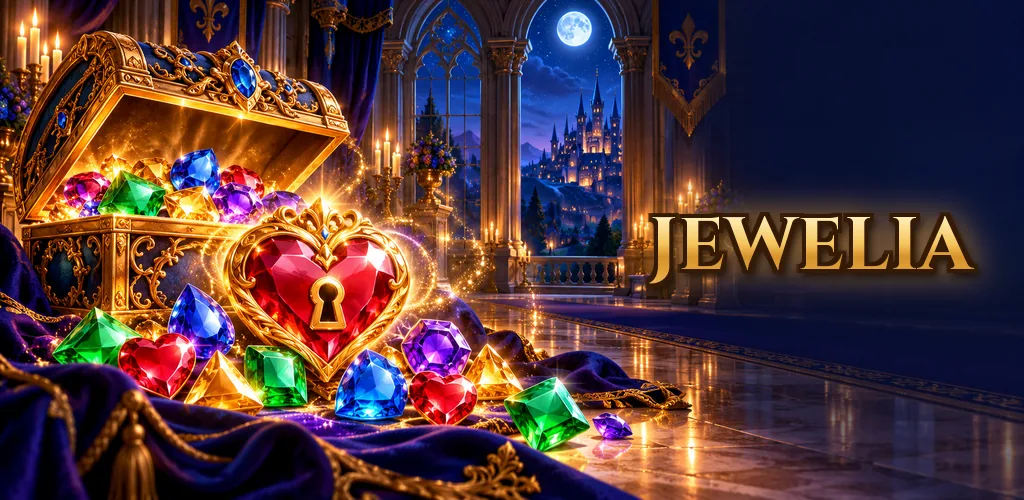
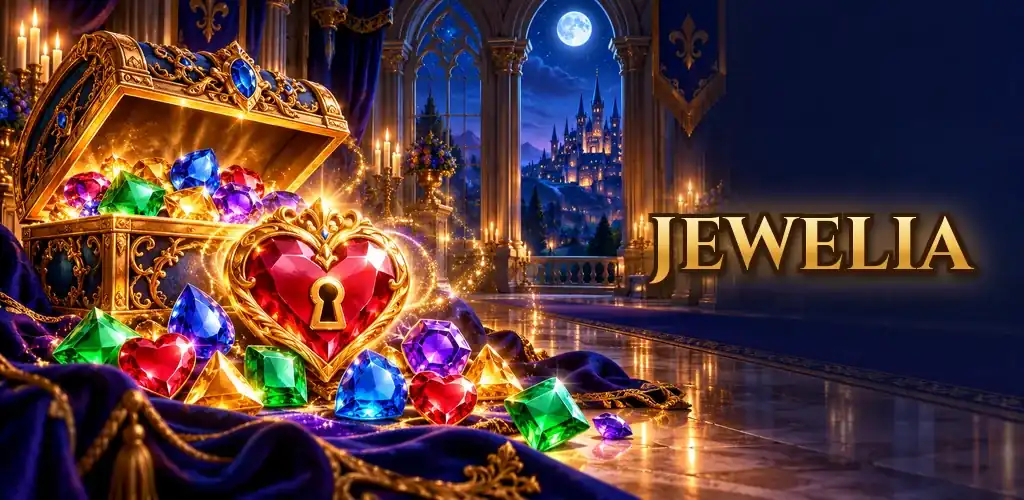
Fix heading order, link names and hero image weight
- Footer headings h3 -> h2 so the 404 page has no skipped level
- Galleries get role="region" for their aria-label
- Brand link: drop aria-label, real space before STUDIO
- Jewelia: preload the hero background, re-encode it (110 KB -> 62 KB)
- robots.txt: keep /jewelia/levels/ out of search; README note
- CSS/JS ?v=5

diff --git a/jewelia/index.html b/jewelia/index.html
@@ -15,7 +15,8 @@
 <link rel="apple-touch-icon" href="/apple-touch-icon.png">
 <link rel="preload" href="/assets/fonts/playfair-display-latin-wght-normal.woff2" as="font" type="font/woff2" crossorigin>
 <link rel="preload" href="/assets/fonts/inter-latin-wght-normal.woff2" as="font" type="font/woff2" crossorigin>
-<link rel="stylesheet" href="/assets/css/site.css?v=4">
+<link rel="preload" href="/assets/img/jewelia-feature.webp" as="image" fetchpriority="high">
+<link rel="stylesheet" href="/assets/css/site.css?v=5">
 <meta property="og:type" content="website">
 <meta property="og:site_name" content="MBS Nova Studio">
 <meta property="og:url" content="https://mbsnovastudio.com/jewelia/">
@@ -41,7 +42,7 @@
   "author": { "@type": "Organization", "name": "MBS Nova Studio", "url": "https://mbsnovastudio.com/" }
 }
 </script>
-<script src="/assets/js/site.js?v=4" defer></script>
+<script src="/assets/js/site.js?v=5" defer></script>
 </head>
 <body>
 <svg width="0" height="0" style="position:absolute" aria-hidden="true" focusable="false">
@@ -66,9 +67,9 @@
 
 <header class="site-header">
   <div class="wrap header-inner">
-    <a class="brand" href="/" aria-label="MBS Nova Studio">
+    <a class="brand" href="/">
       <svg class="brand-mark" aria-hidden="true"><use href="#i-star"/></svg>
-      <span class="brand-name">MBS Nova<small>STUDIO</small></span>
+      <span class="brand-name">MBS Nova <small>STUDIO</small></span>
     </a>
     <nav class="nav" id="site-nav" aria-label="Menü / Menu">
       <a href="/#apps" aria-current="page"><span lang="tr">Ürünler</span><span lang="en">Products</span></a>
@@ -139,7 +140,7 @@
           <button type="button" data-dir="1" aria-label="Sonraki / Next"><svg aria-hidden="true"><use href="#i-arrow"/></svg></button>
         </div>
       </div>
-      <div class="gallery" id="gallery" tabindex="0" aria-label="Jewelia">
+      <div class="gallery" id="gallery" role="region" tabindex="0" aria-label="Jewelia">
         <figure><div class="phone"><img lang="tr" src="/assets/img/jewelia/tr-0.webp" alt="Seviye haritası" width="540" height="960" loading="lazy"><img lang="en" src="/assets/img/jewelia/en-0.webp" alt="Level map" width="540" height="960" loading="lazy"></div><figcaption><span lang="tr">Seviye haritası</span><span lang="en">Level map</span></figcaption></figure>
         <figure><div class="phone"><img lang="tr" src="/assets/img/jewelia/tr-1.webp" alt="Güçlü patlamalar" width="540" height="960" loading="lazy"><img lang="en" src="/assets/img/jewelia/en-1.webp" alt="Powerful blasts" width="540" height="960" loading="lazy"></div><figcaption><span lang="tr">Güçlü patlamalar</span><span lang="en">Powerful blasts</span></figcaption></figure>
         <figure><div class="phone"><img lang="tr" src="/assets/img/jewelia/tr-2.webp" alt="Anahtarları kurtarın" width="540" height="960" loading="lazy"><img lang="en" src="/assets/img/jewelia/en-2.webp" alt="Free the keys" width="540" height="960" loading="lazy"></div><figcaption><span lang="tr">Anahtarları kurtarın</span><span lang="en">Free the keys</span></figcaption></figure>
@@ -250,15 +251,15 @@
   <div class="wrap">
     <div class="footer-grid">
       <div class="footer-about">
-        <a class="brand" href="/" aria-label="MBS Nova Studio">
+        <a class="brand" href="/">
           <svg class="brand-mark" aria-hidden="true"><use href="#i-star"/></svg>
-          <span class="brand-name">MBS Nova<small>STUDIO</small></span>
+          <span class="brand-name">MBS Nova <small>STUDIO</small></span>
         </a>
         <p lang="tr">Özenle tasarlanmış mobil oyunlar ve uygulamalar.</p>
         <p lang="en">Thoughtfully crafted mobile games and apps.</p>
       </div>
       <div>
-        <h3><span lang="tr">Ürünler</span><span lang="en">Products</span></h3>
+        <h2><span lang="tr">Ürünler</span><span lang="en">Products</span></h2>
         <ul>
           <li><a href="/jewelia/">Jewelia</a></li>
           <li><a href="/kasa/">MBS Kasa</a></li>
@@ -266,14 +267,14 @@
         </ul>
       </div>
       <div>
-        <h3><span lang="tr">Yasal</span><span lang="en">Legal</span></h3>
+        <h2><span lang="tr">Yasal</span><span lang="en">Legal</span></h2>
         <ul>
           <li><a href="/jewelia-privacy/"><span lang="tr">Jewelia gizlilik politikası</span><span lang="en">Jewelia privacy policy</span></a></li>
           <li><a href="https://mbs-kasa.mbsnova.workers.dev/privacy"><span lang="tr">MBS Kasa gizlilik politikası</span><span lang="en">MBS Kasa privacy policy</span></a></li>
         </ul>
       </div>
       <div>
-        <h3><span lang="tr">İletişim</span><span lang="en">Contact</span></h3>
+        <h2><span lang="tr">İletişim</span><span lang="en">Contact</span></h2>
         <ul>
           <li><a href="mailto:info@mbsnovastudio.com">info@mbsnovastudio.com</a></li>
         </ul>

diff --git a/kasa/index.html b/kasa/index.html
@@ -15,7 +15,7 @@
 <link rel="apple-touch-icon" href="/apple-touch-icon.png">
 <link rel="preload" href="/assets/fonts/playfair-display-latin-wght-normal.woff2" as="font" type="font/woff2" crossorigin>
 <link rel="preload" href="/assets/fonts/inter-latin-wght-normal.woff2" as="font" type="font/woff2" crossorigin>
-<link rel="stylesheet" href="/assets/css/site.css?v=4">
+<link rel="stylesheet" href="/assets/css/site.css?v=5">
 <meta property="og:type" content="website">
 <meta property="og:site_name" content="MBS Nova Studio">
 <meta property="og:url" content="https://mbsnovastudio.com/kasa/">
@@ -41,7 +41,7 @@
   "author": { "@type": "Organization", "name": "MBS Nova Studio", "url": "https://mbsnovastudio.com/" }
 }
 </script>
-<script src="/assets/js/site.js?v=4" defer></script>
+<script src="/assets/js/site.js?v=5" defer></script>
 </head>
 <body>
 <svg width="0" height="0" style="position:absolute" aria-hidden="true" focusable="false">
@@ -65,9 +65,9 @@
 
 <header class="site-header">
   <div class="wrap header-inner">
-    <a class="brand" href="/" aria-label="MBS Nova Studio">
+    <a class="brand" href="/">
       <svg class="brand-mark" aria-hidden="true"><use href="#i-star"/></svg>
-      <span class="brand-name">MBS Nova<small>STUDIO</small></span>
+      <span class="brand-name">MBS Nova <small>STUDIO</small></span>
     </a>
     <nav class="nav" id="site-nav" aria-label="Menü / Menu">
       <a href="/#apps" aria-current="page"><span lang="tr">Ürünler</span><span lang="en">Products</span></a>
@@ -136,7 +136,7 @@
           <button type="button" data-dir="1" aria-label="Sonraki / Next"><svg aria-hidden="true"><use href="#i-arrow"/></svg></button>
         </div>
       </div>
-      <div class="gallery" id="gallery" tabindex="0" aria-label="MBS Kasa">
+      <div class="gallery" id="gallery" role="region" tabindex="0" aria-label="MBS Kasa">
         <figure><div class="phone"><img src="/assets/img/kasa/01-ozet.webp" alt="Özet / Overview" width="540" height="960" loading="lazy"></div><figcaption><span lang="tr">Özet</span><span lang="en">Overview</span></figcaption></figure>
         <figure><div class="phone"><img src="/assets/img/kasa/02-cuzdan.webp" alt="Cüzdan / Wallet" width="540" height="960" loading="lazy"></div><figcaption><span lang="tr">Cüzdan</span><span lang="en">Wallet</span></figcaption></figure>
         <figure><div class="phone"><img src="/assets/img/kasa/03-hareketler.webp" alt="Hareketler / Transactions" width="540" height="960" loading="lazy"></div><figcaption><span lang="tr">Hareketler</span><span lang="en">Transactions</span></figcaption></figure>
@@ -280,15 +280,15 @@
   <div class="wrap">
     <div class="footer-grid">
       <div class="footer-about">
-        <a class="brand" href="/" aria-label="MBS Nova Studio">
+        <a class="brand" href="/">
           <svg class="brand-mark" aria-hidden="true"><use href="#i-star"/></svg>
-          <span class="brand-name">MBS Nova<small>STUDIO</small></span>
+          <span class="brand-name">MBS Nova <small>STUDIO</small></span>
         </a>
         <p lang="tr">Özenle tasarlanmış mobil oyunlar ve uygulamalar.</p>
         <p lang="en">Thoughtfully crafted mobile games and apps.</p>
       </div>
       <div>
-        <h3><span lang="tr">Ürünler</span><span lang="en">Products</span></h3>
+        <h2><span lang="tr">Ürünler</span><span lang="en">Products</span></h2>
         <ul>
           <li><a href="/jewelia/">Jewelia</a></li>
           <li><a href="/kasa/">MBS Kasa</a></li>
@@ -296,14 +296,14 @@
         </ul>
       </div>
       <div>
-        <h3><span lang="tr">Yasal</span><span lang="en">Legal</span></h3>
+        <h2><span lang="tr">Yasal</span><span lang="en">Legal</span></h2>
         <ul>
           <li><a href="/jewelia-privacy/"><span lang="tr">Jewelia gizlilik politikası</span><span lang="en">Jewelia privacy policy</span></a></li>
           <li><a href="https://mbs-kasa.mbsnova.workers.dev/privacy"><span lang="tr">MBS Kasa gizlilik politikası</span><span lang="en">MBS Kasa privacy policy</span></a></li>
         </ul>
       </div>
       <div>
-        <h3><span lang="tr">İletişim</span><span lang="en">Contact</span></h3>
+        <h2><span lang="tr">İletişim</span><span lang="en">Contact</span></h2>
         <ul>
           <li><a href="mailto:info@mbsnovastudio.com">info@mbsnovastudio.com</a></li>
         </ul>

diff --git a/index.html b/index.html
@@ -15,7 +15,7 @@
 <link rel="apple-touch-icon" href="/apple-touch-icon.png">
 <link rel="preload" href="/assets/fonts/playfair-display-latin-wght-normal.woff2" as="font" type="font/woff2" crossorigin>
 <link rel="preload" href="/assets/fonts/inter-latin-wght-normal.woff2" as="font" type="font/woff2" crossorigin>
-<link rel="stylesheet" href="/assets/css/site.css?v=4">
+<link rel="stylesheet" href="/assets/css/site.css?v=5">
 <meta property="og:type" content="website">
 <meta property="og:site_name" content="MBS Nova Studio">
 <meta property="og:url" content="https://mbsnovastudio.com/">
@@ -39,7 +39,7 @@
   "sameAs": ["https://play.google.com/store/apps/developer?id=MBS+Nova+Studio"]
 }
 </script>
-<script src="/assets/js/site.js?v=4" defer></script>
+<script src="/assets/js/site.js?v=5" defer></script>
 </head>
 <body>
 <svg width="0" height="0" style="position:absolute" aria-hidden="true" focusable="false">
@@ -62,9 +62,9 @@
 
 <header class="site-header">
   <div class="wrap header-inner">
-    <a class="brand" href="/" aria-label="MBS Nova Studio">
+    <a class="brand" href="/">
       <svg class="brand-mark" aria-hidden="true"><use href="#i-star"/></svg>
-      <span class="brand-name">MBS Nova<small>STUDIO</small></span>
+      <span class="brand-name">MBS Nova <small>STUDIO</small></span>
     </a>
     <nav class="nav" id="site-nav" aria-label="Menü / Menu">
       <a href="/#apps"><span lang="tr">Ürünler</span><span lang="en">Products</span></a>
@@ -309,15 +309,15 @@
   <div class="wrap">
     <div class="footer-grid">
       <div class="footer-about">
-        <a class="brand" href="/" aria-label="MBS Nova Studio">
+        <a class="brand" href="/">
           <svg class="brand-mark" aria-hidden="true"><use href="#i-star"/></svg>
-          <span class="brand-name">MBS Nova<small>STUDIO</small></span>
+          <span class="brand-name">MBS Nova <small>STUDIO</small></span>
         </a>
         <p lang="tr">Özenle tasarlanmış mobil oyunlar ve uygulamalar.</p>
         <p lang="en">Thoughtfully crafted mobile games and apps.</p>
       </div>
       <div>
-        <h3><span lang="tr">Ürünler</span><span lang="en">Products</span></h3>
+        <h2><span lang="tr">Ürünler</span><span lang="en">Products</span></h2>
         <ul>
           <li><a href="/jewelia/">Jewelia</a></li>
           <li><a href="/kasa/">MBS Kasa</a></li>
@@ -325,14 +325,14 @@
         </ul>
       </div>
       <div>
-        <h3><span lang="tr">Yasal</span><span lang="en">Legal</span></h3>
+        <h2><span lang="tr">Yasal</span><span lang="en">Legal</span></h2>
         <ul>
           <li><a href="/jewelia-privacy/"><span lang="tr">Jewelia gizlilik politikası</span><span lang="en">Jewelia privacy policy</span></a></li>
           <li><a href="https://mbs-kasa.mbsnova.workers.dev/privacy"><span lang="tr">MBS Kasa gizlilik politikası</span><span lang="en">MBS Kasa privacy policy</span></a></li>
         </ul>
       </div>
       <div>
-        <h3><span lang="tr">İletişim</span><span lang="en">Contact</span></h3>
+        <h2><span lang="tr">İletişim</span><span lang="en">Contact</span></h2>
         <ul>
           <li><a href="mailto:info@mbsnovastudio.com">info@mbsnovastudio.com</a></li>
         </ul>

diff --git a/404.html b/404.html
@@ -14,8 +14,8 @@
 <link rel="apple-touch-icon" href="/apple-touch-icon.png">
 <link rel="preload" href="/assets/fonts/playfair-display-latin-wght-normal.woff2" as="font" type="font/woff2" crossorigin>
 <link rel="preload" href="/assets/fonts/inter-latin-wght-normal.woff2" as="font" type="font/woff2" crossorigin>
-<link rel="stylesheet" href="/assets/css/site.css?v=4">
-<script src="/assets/js/site.js?v=4" defer></script>
+<link rel="stylesheet" href="/assets/css/site.css?v=5">
+<script src="/assets/js/site.js?v=5" defer></script>
 </head>
 <body>
 <svg width="0" height="0" style="position:absolute" aria-hidden="true" focusable="false">
@@ -39,9 +39,9 @@
 
 <header class="site-header">
   <div class="wrap header-inner">
-    <a class="brand" href="/" aria-label="MBS Nova Studio">
+    <a class="brand" href="/">
       <svg class="brand-mark" aria-hidden="true"><use href="#i-star"/></svg>
-      <span class="brand-name">MBS Nova<small>STUDIO</small></span>
+      <span class="brand-name">MBS Nova <small>STUDIO</small></span>
     </a>
     <nav class="nav" id="site-nav" aria-label="Menü / Menu">
       <a href="/#apps"><span lang="tr">Ürünler</span><span lang="en">Products</span></a>
@@ -79,15 +79,15 @@
   <div class="wrap">
     <div class="footer-grid">
       <div class="footer-about">
-        <a class="brand" href="/" aria-label="MBS Nova Studio">
+        <a class="brand" href="/">
           <svg class="brand-mark" aria-hidden="true"><use href="#i-star"/></svg>
-          <span class="brand-name">MBS Nova<small>STUDIO</small></span>
+          <span class="brand-name">MBS Nova <small>STUDIO</small></span>
         </a>
         <p lang="tr">Özenle tasarlanmış mobil oyunlar ve uygulamalar.</p>
         <p lang="en">Thoughtfully crafted mobile games and apps.</p>
       </div>
       <div>
-        <h3><span lang="tr">Ürünler</span><span lang="en">Products</span></h3>
+        <h2><span lang="tr">Ürünler</span><span lang="en">Products</span></h2>
         <ul>
           <li><a href="/jewelia/">Jewelia</a></li>
           <li><a href="/kasa/">MBS Kasa</a></li>
@@ -95,14 +95,14 @@
         </ul>
       </div>
       <div>
-        <h3><span lang="tr">Yasal</span><span lang="en">Legal</span></h3>
+        <h2><span lang="tr">Yasal</span><span lang="en">Legal</span></h2>
         <ul>
           <li><a href="/jewelia-privacy/"><span lang="tr">Jewelia gizlilik politikası</span><span lang="en">Jewelia privacy policy</span></a></li>
           <li><a href="https://mbs-kasa.mbsnova.workers.dev/privacy"><span lang="tr">MBS Kasa gizlilik politikası</span><span lang="en">MBS Kasa privacy policy</span></a></li>
         </ul>
       </div>
       <div>
-        <h3><span lang="tr">İletişim</span><span lang="en">Contact</span></h3>
+        <h2><span lang="tr">İletişim</span><span lang="en">Contact</span></h2>
         <ul>
           <li><a href="mailto:info@mbsnovastudio.com">info@mbsnovastudio.com</a></li>
         </ul>

diff --git a/assets/css/site.css b/assets/css/site.css
@@ -125,7 +125,7 @@ p { margin: 0; }
 .brand:hover { color: var(--text); }
 .brand-mark { width: 30px; height: 30px; flex: none; filter: drop-shadow(0 0 10px rgba(226,182,90,.45)); }
 .brand-name { font-family: var(--serif); font-weight: 700; font-size: 1.22rem; letter-spacing: 0.01em; white-space: nowrap; }
-.brand-name small { font-family: var(--sans); font-weight: 500; font-size: .72rem; letter-spacing: .22em; color: var(--gold); margin-left: 6px; }
+.brand-name small { font-family: var(--sans); font-weight: 500; font-size: .72rem; letter-spacing: .22em; color: var(--gold); margin-left: 1px; }
 
 .nav { display: flex; align-items: center; gap: 4px; }
 .nav a {
@@ -460,7 +460,7 @@ html[data-lang="en"] .phone .shot-jewelia { background-image: url(/assets/img/je
 /* ---------- Footer ---------- */
 .site-footer { border-top: 1px solid var(--line); background: #090d22; padding: 56px 0 32px; color: var(--muted); font-size: .94rem; }
 .footer-grid { display: grid; grid-template-columns: 1.5fr 1fr 1fr 1fr; gap: 32px; }
-.footer-grid h3 { font-family: var(--sans); font-size: .78rem; letter-spacing: .18em; text-transform: uppercase; color: var(--dim); font-weight: 600; margin-bottom: 14px; }
+.footer-grid h2 { font-family: var(--sans); font-size: .78rem; letter-spacing: .18em; text-transform: uppercase; color: var(--dim); font-weight: 600; margin-bottom: 14px; }
 .footer-grid ul { list-style: none; margin: 0; padding: 0; display: grid; gap: 9px; }
 .footer-grid a { color: var(--muted); text-decoration: none; }
 .footer-grid a:hover { color: var(--text); }

diff --git a/README.md b/README.md
@@ -17,4 +17,6 @@ Source of https://mbsnovastudio.com (GitHub Pages, custom domain in `CNAME`). Pl
 - Keep at the root: `CNAME`, `app-ads.txt` (AdMob), `google8c3ea22be4a5908c.html` (Search Console).
 - `/jewelia-privacy/` is served from the separate `mbsnovastudio/jewelia-privacy` repository; do not add a folder
   with that name here.
+- `jewelia/levels/` holds the signed remote level packs the Jewelia game downloads (`manifest.json` + `pack_*.json`).
+  Do not edit or move them by hand; robots.txt keeps them out of search results.
 - Local preview: `python -m http.server 8080`, then open http://localhost:8080 (paths are root-absolute).
